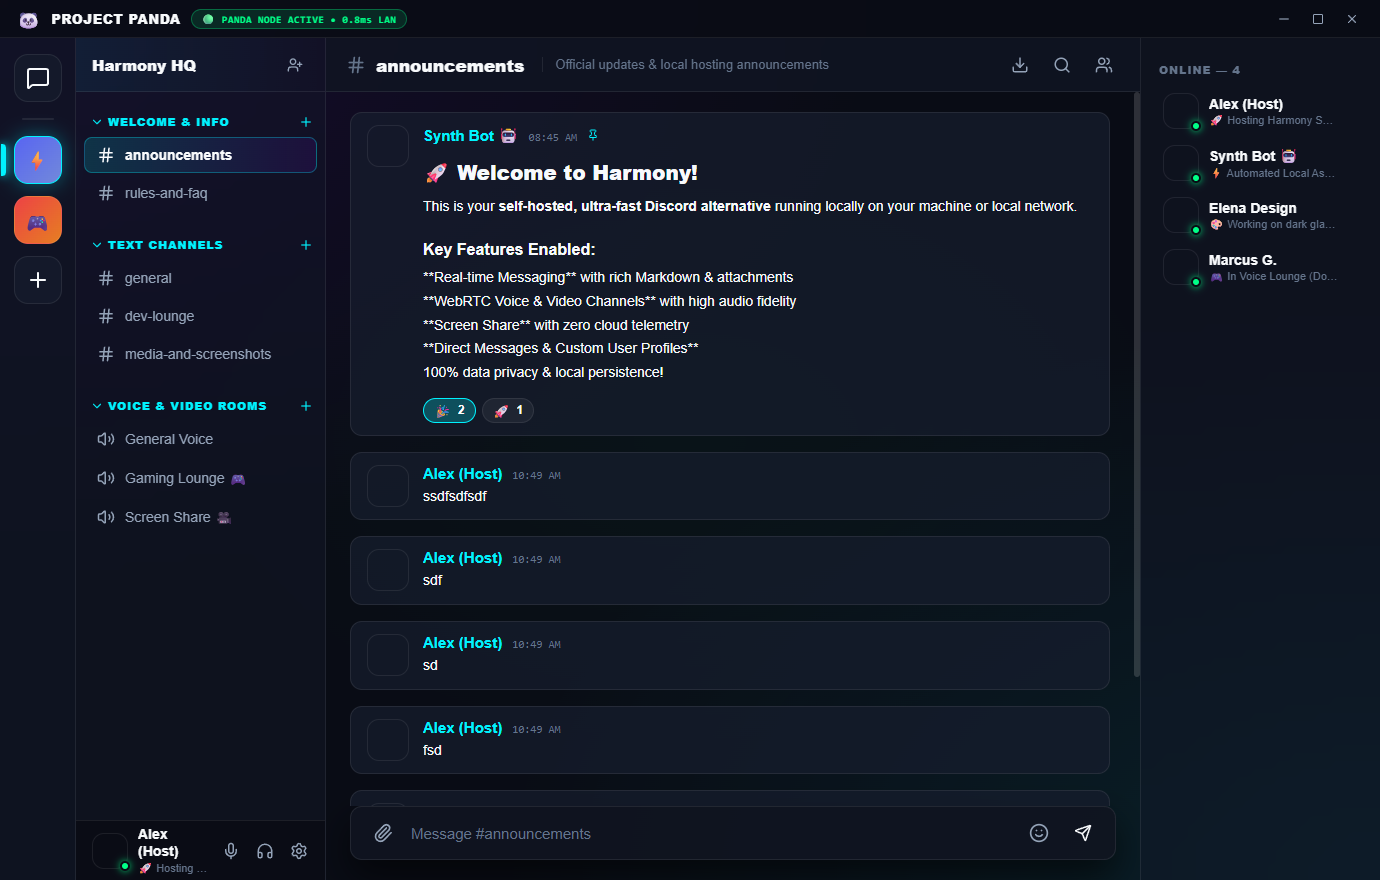
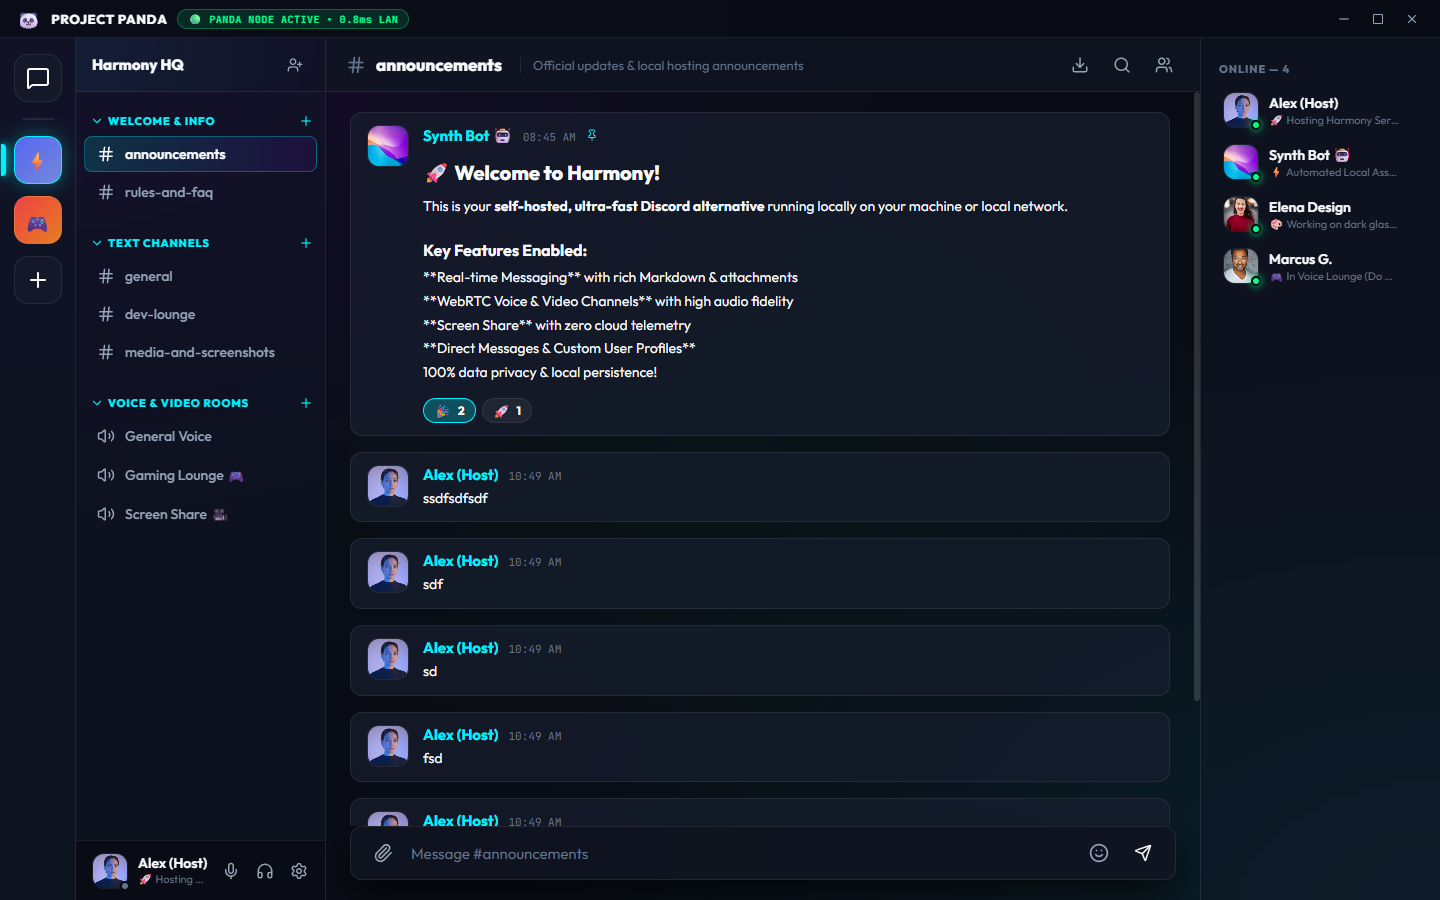
style: Clean up README presentation and update real app screenshot

diff --git a/README.md b/README.md
@@ -2,14 +2,10 @@
 
 **Project Panda** is a next-generation Windows desktop application for self-hosted local communication, featuring a unique **Holographic Glassmorphic Sci-Fi Design System**, real-time text chat, high-fidelity WebRTC voice/video mesh, screen sharing, sci-fi theme customization, hardware device routing, and local persistent data storage with zero third-party telemetry.
 
+![Project Panda Interface](public/screenshots/app_main.png)
+
 - **GitHub Repository**: [https://github.com/dima20012/project-panda](https://github.com/dima20012/project-panda)
 - **Latest Windows Release (v1.1.0)**: [https://github.com/dima20012/project-panda/releases/tag/v1.1.0](https://github.com/dima20012/project-panda/releases/tag/v1.1.0)
-
----
-
-## 📸 Application Screenshot
-
-![Project Panda App Screenshot](public/screenshots/app_main.png)
 
 ---
 
